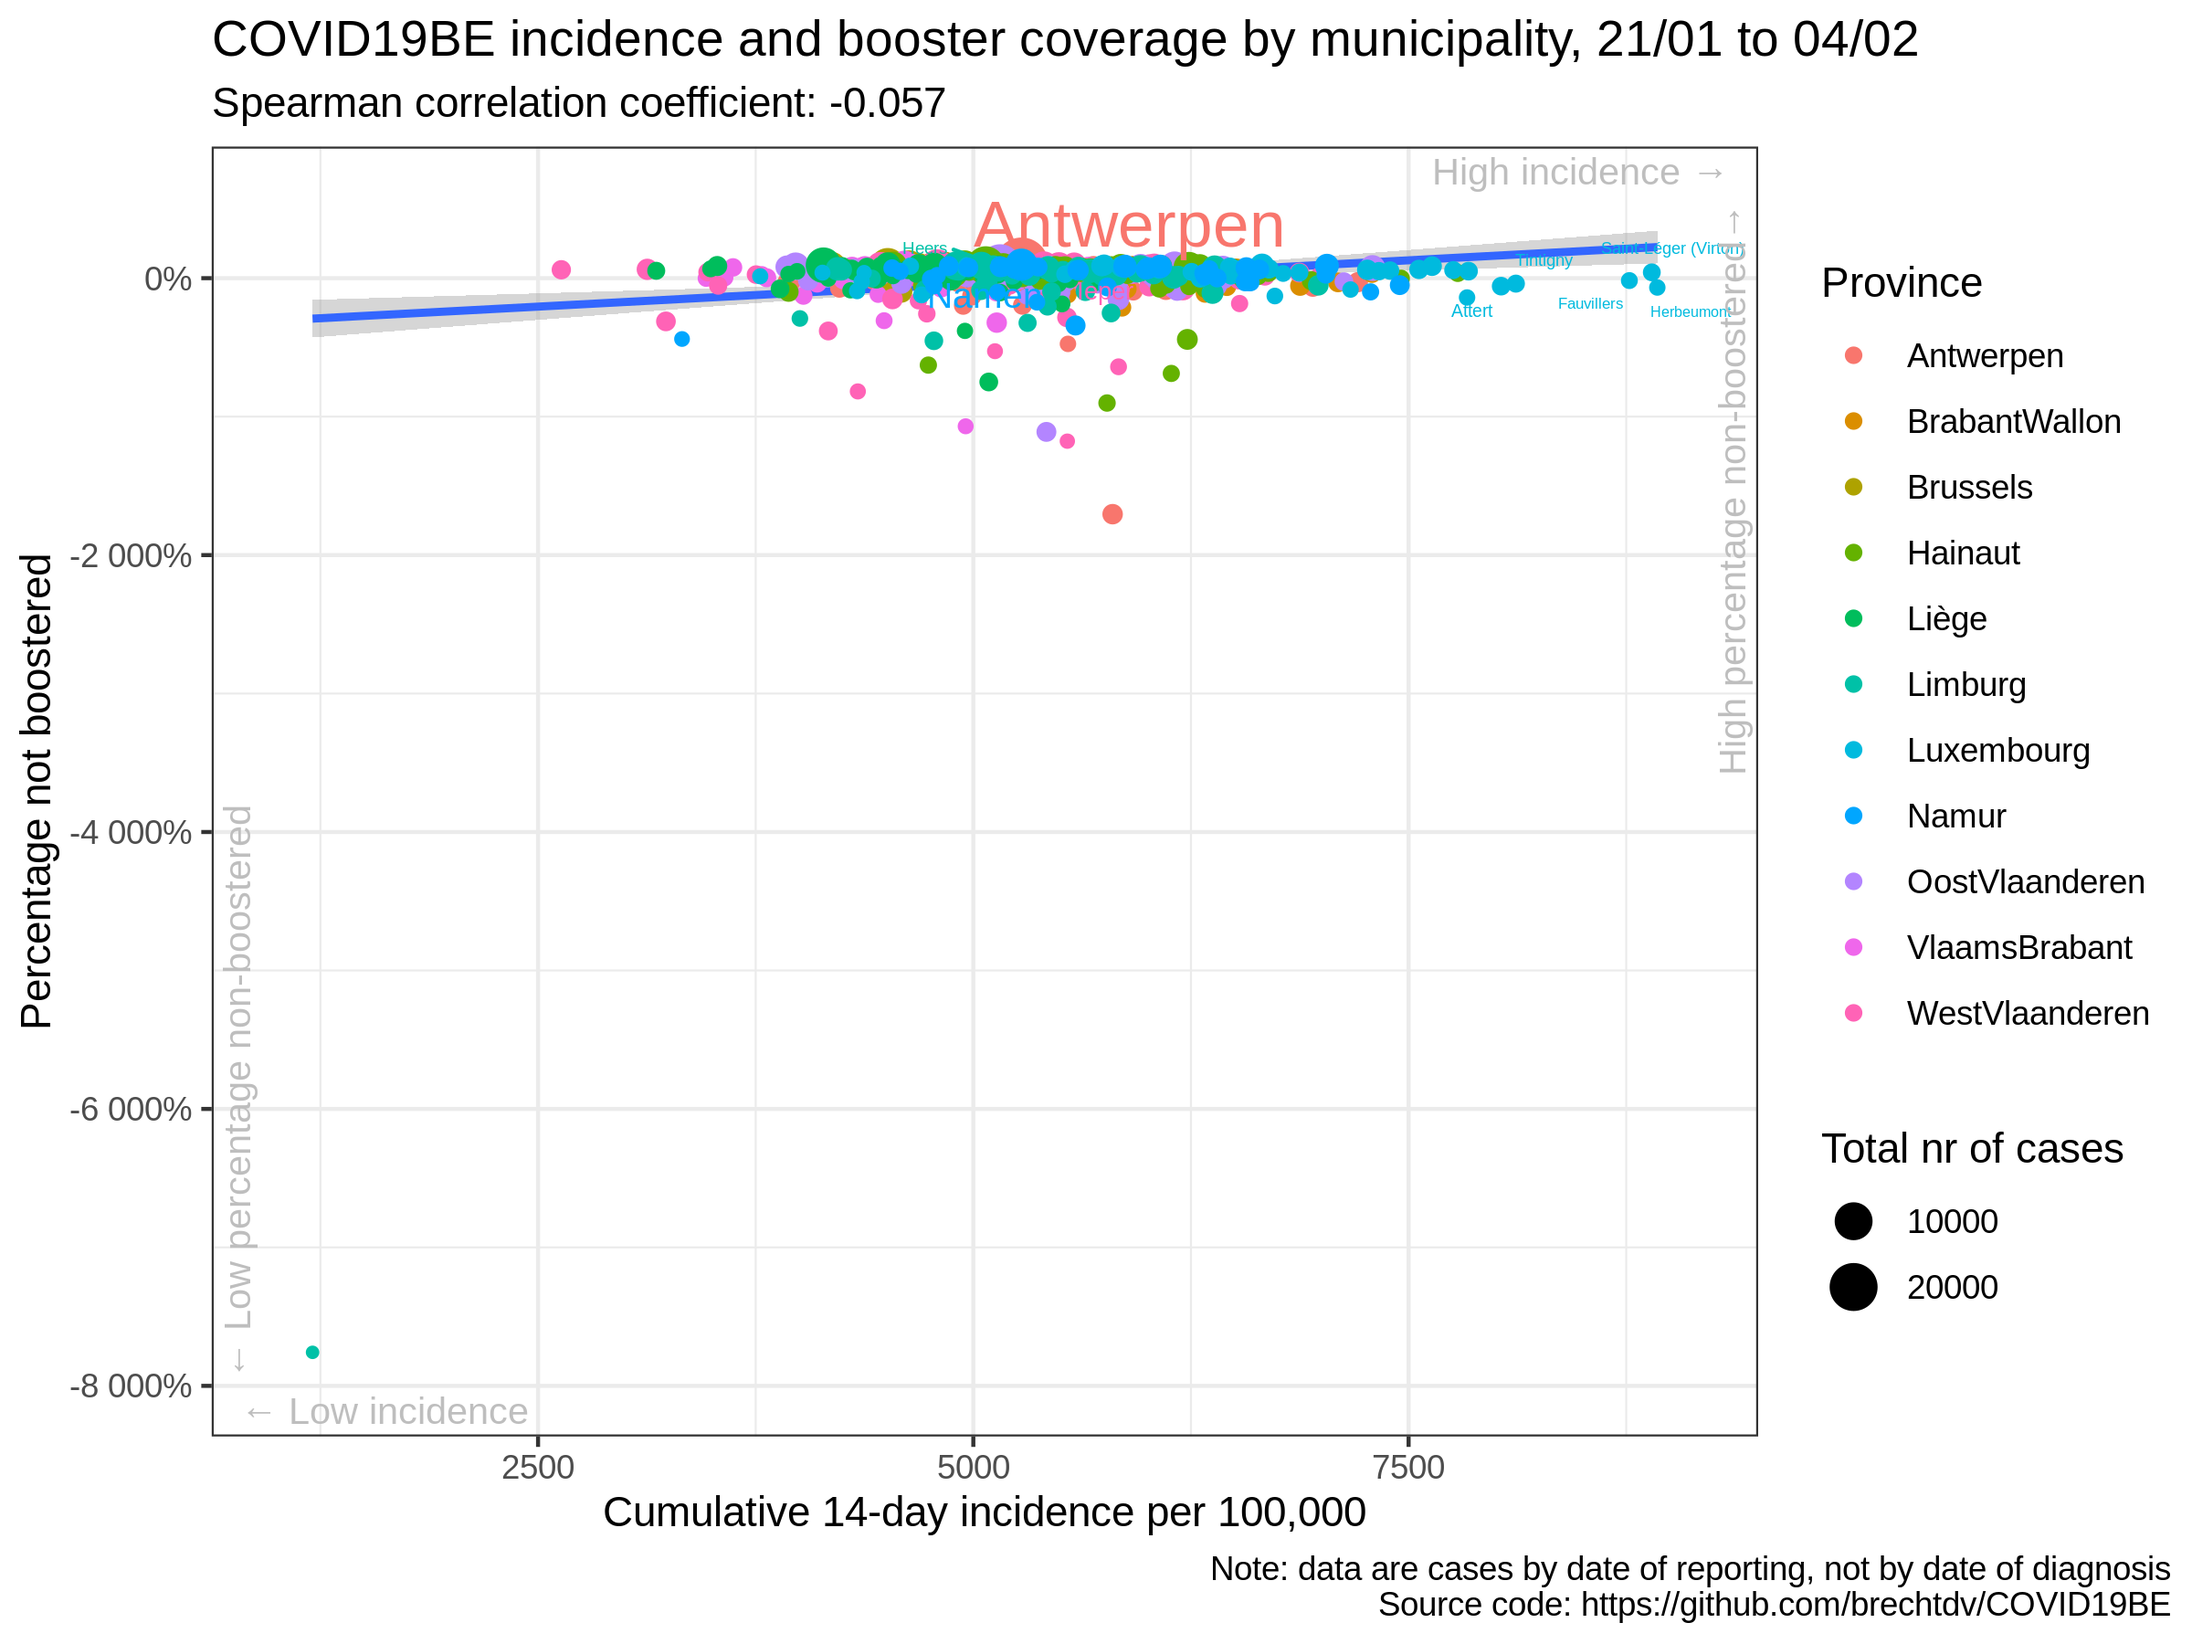
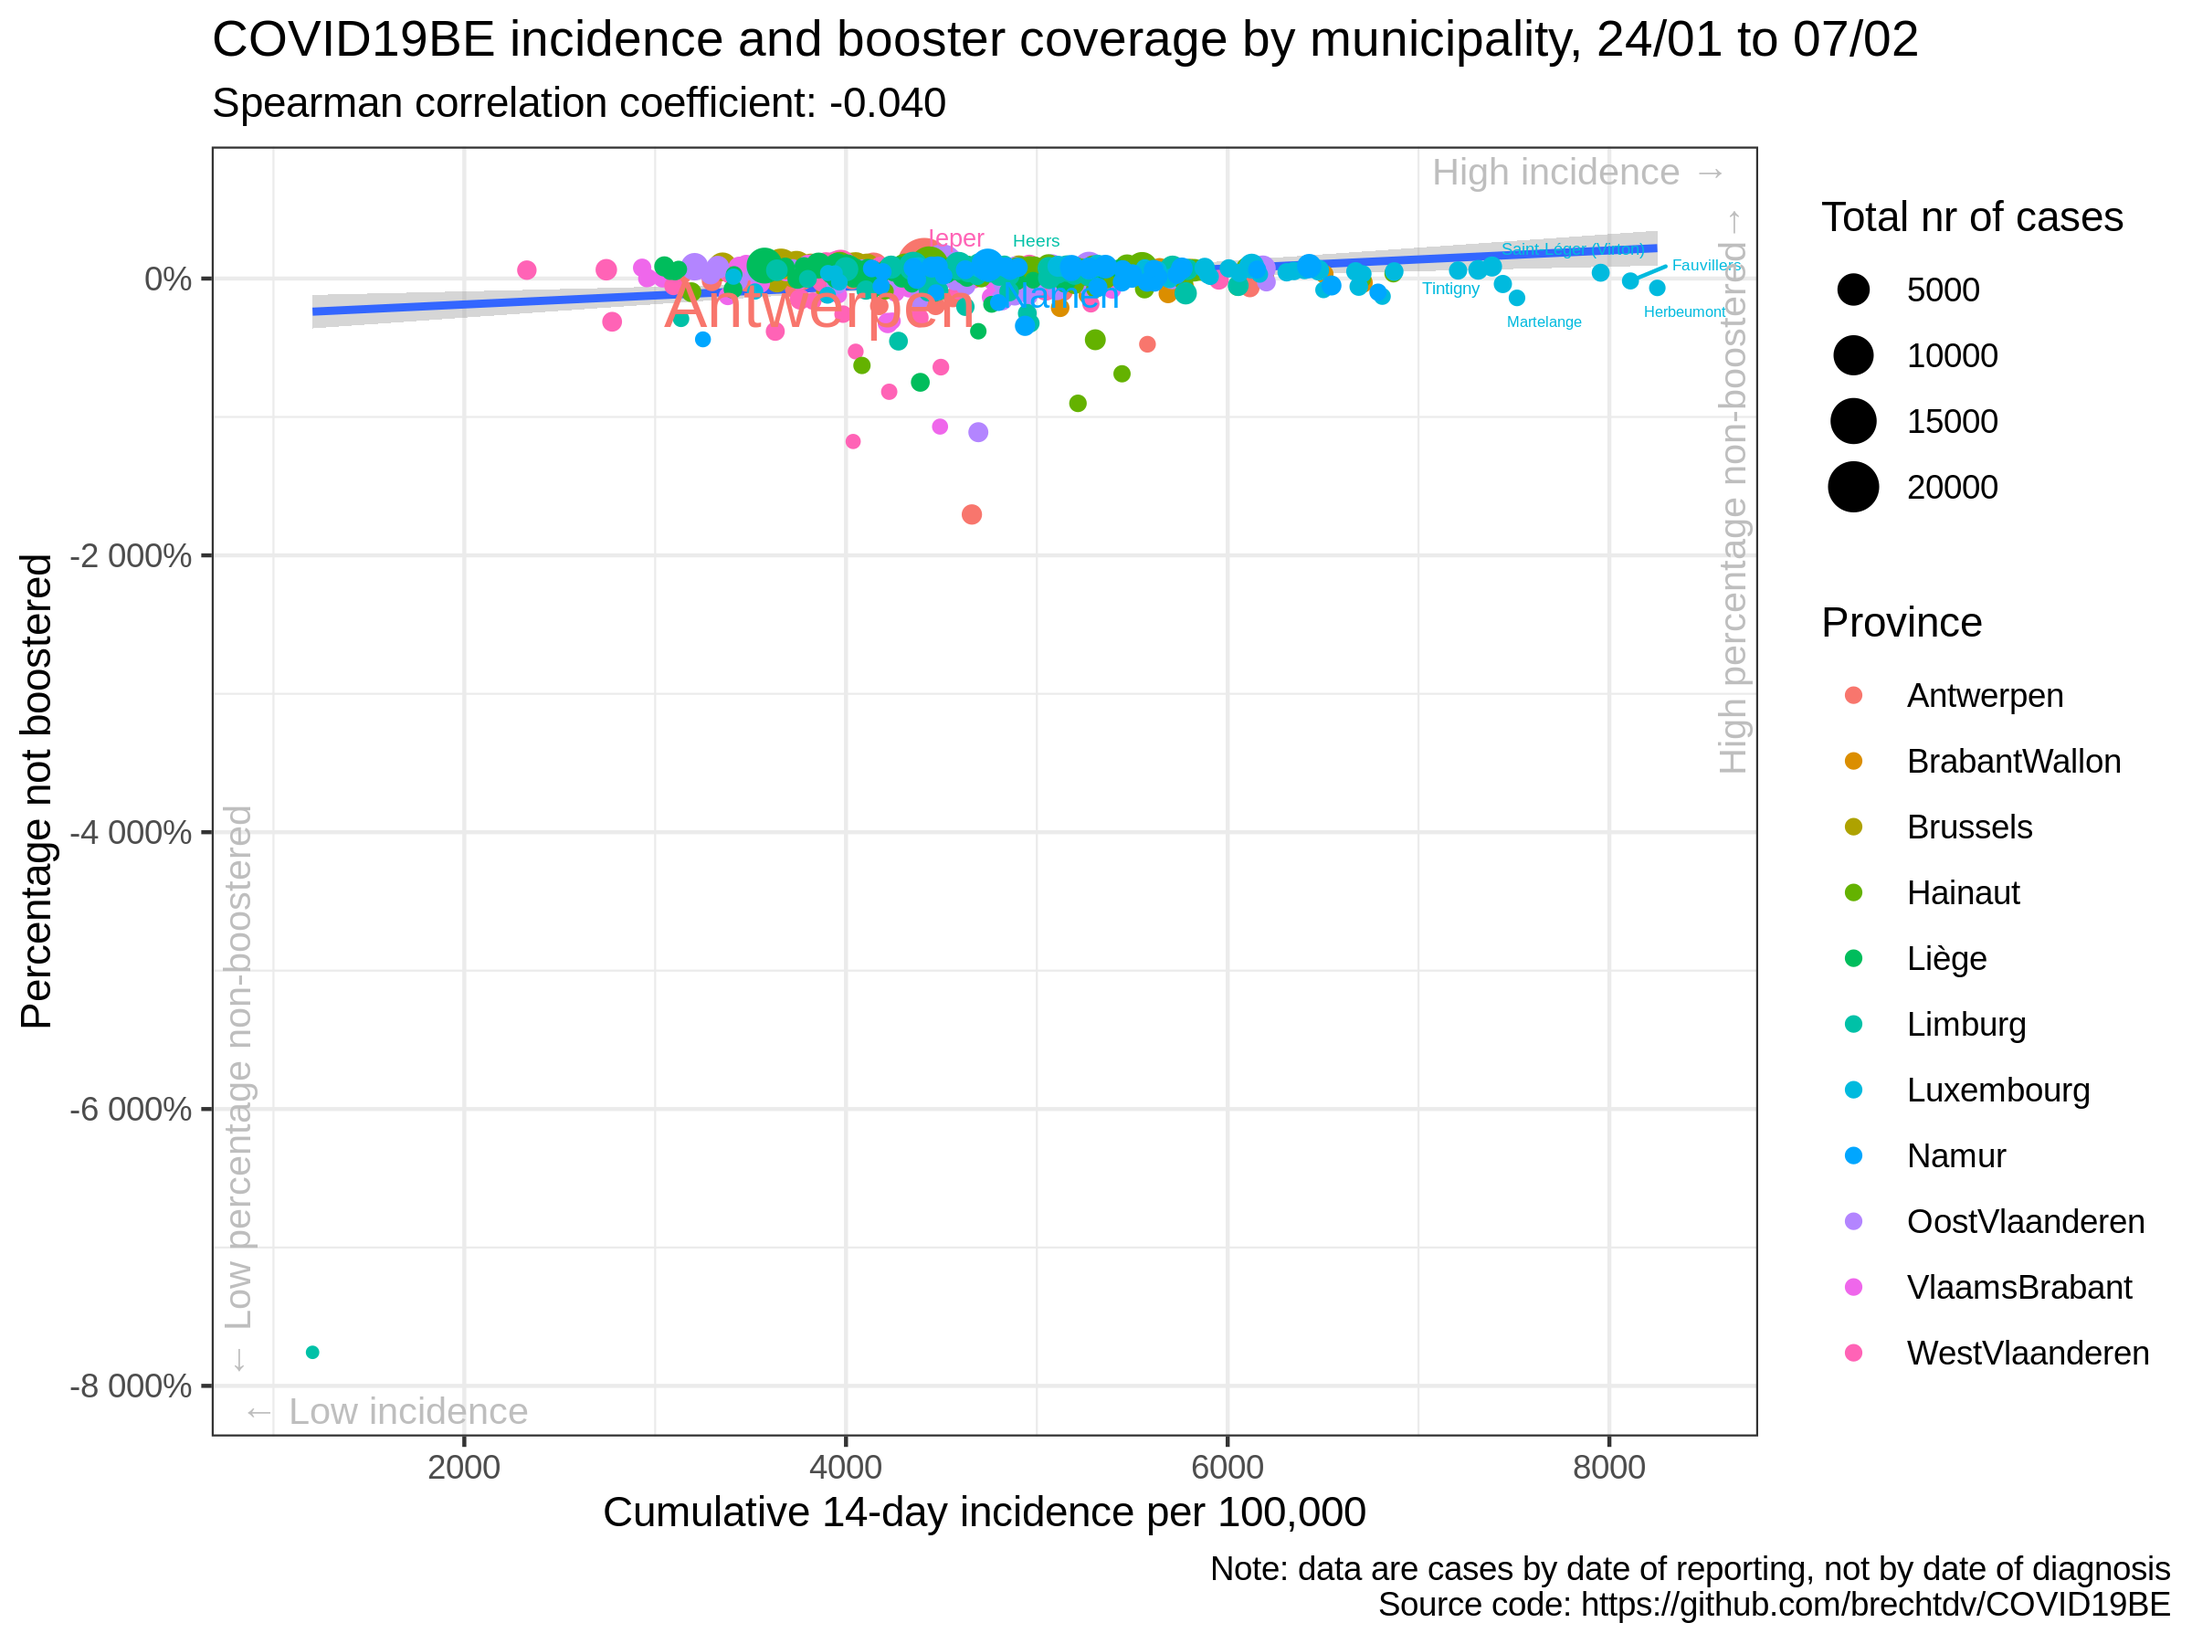
update situation

diff --git a/vaccination/README.md b/vaccination/README.md
@@ -17,35 +17,35 @@
 
 |                | estimate.rho | p.value |
 | :------------- | -----------: | ------: |
-| Antwerpen      |      \-0.054 |   0.657 |
-| BrabantWallon  |      \-0.449 |   0.020 |
-| Brussels       |      \-0.107 |   0.662 |
-| Hainaut        |      \-0.171 |   0.161 |
-| Liège          |      \-0.220 |   0.045 |
-| Limburg        |        0.055 |   0.727 |
-| Luxembourg     |      \-0.182 |   0.237 |
-| Namur          |      \-0.054 |   0.750 |
-| OostVlaanderen |      \-0.147 |   0.260 |
-| VlaamsBrabant  |      \-0.045 |   0.724 |
-| WestVlaanderen |        0.070 |   0.582 |
-| Belgium        |      \-0.060 |   0.151 |
+| Antwerpen      |      \-0.083 |   0.495 |
+| BrabantWallon  |      \-0.486 |   0.011 |
+| Brussels       |      \-0.205 |   0.398 |
+| Hainaut        |      \-0.167 |   0.169 |
+| Liège          |      \-0.300 |   0.006 |
+| Limburg        |        0.097 |   0.541 |
+| Luxembourg     |      \-0.194 |   0.206 |
+| Namur          |      \-0.041 |   0.809 |
+| OostVlaanderen |      \-0.064 |   0.626 |
+| VlaamsBrabant  |      \-0.138 |   0.272 |
+| WestVlaanderen |        0.091 |   0.474 |
+| Belgium        |      \-0.051 |   0.220 |
 
 ### Correlation cumulative incidence vs booster rate
 
 |                | estimate.rho | p.value |
 | :------------- | -----------: | ------: |
-| Antwerpen      |      \-0.050 |   0.684 |
-| BrabantWallon  |      \-0.453 |   0.019 |
-| Brussels       |      \-0.140 |   0.565 |
-| Hainaut        |      \-0.171 |   0.159 |
-| Liège          |      \-0.232 |   0.034 |
-| Limburg        |        0.053 |   0.739 |
-| Luxembourg     |      \-0.193 |   0.209 |
-| Namur          |      \-0.041 |   0.807 |
-| OostVlaanderen |      \-0.147 |   0.261 |
-| VlaamsBrabant  |      \-0.074 |   0.556 |
-| WestVlaanderen |        0.079 |   0.533 |
-| Belgium        |      \-0.057 |   0.173 |
+| Antwerpen      |      \-0.074 |   0.543 |
+| BrabantWallon  |      \-0.490 |   0.010 |
+| Brussels       |      \-0.230 |   0.342 |
+| Hainaut        |      \-0.164 |   0.178 |
+| Liège          |      \-0.310 |   0.004 |
+| Limburg        |        0.097 |   0.542 |
+| Luxembourg     |      \-0.206 |   0.178 |
+| Namur          |      \-0.027 |   0.875 |
+| OostVlaanderen |      \-0.060 |   0.646 |
+| VlaamsBrabant  |      \-0.166 |   0.186 |
+| WestVlaanderen |        0.102 |   0.423 |
+| Belgium        |      \-0.040 |   0.335 |
 
 ### Data source
 
